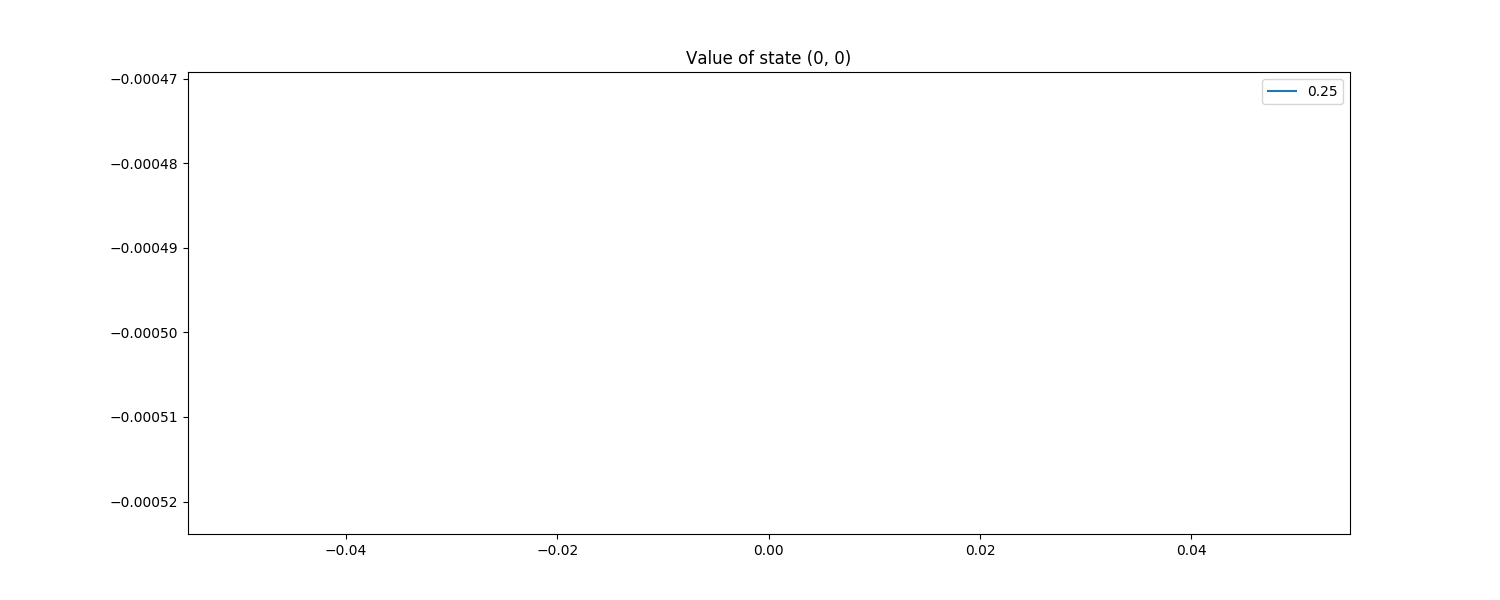
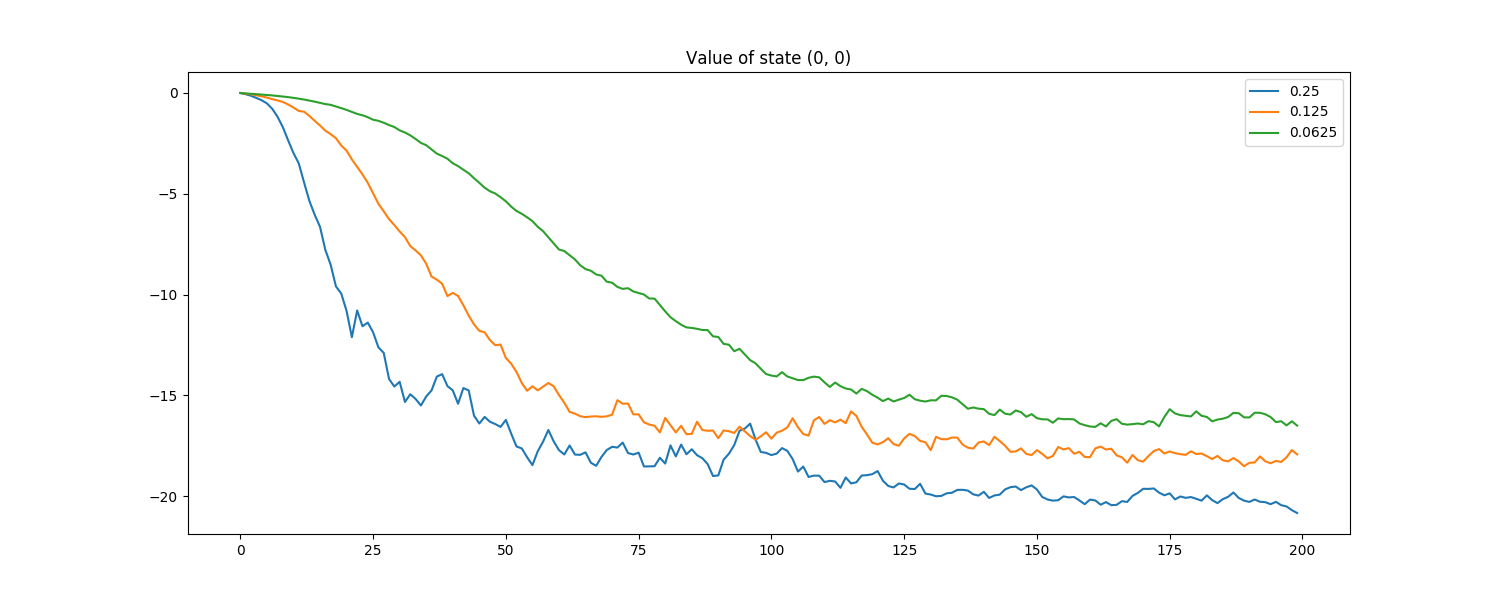
Fixed bugs

diff --git a/modelFree.py b/modelFree.py
@@ -136,7 +136,7 @@ class ReturnCalculator():
 
 
 inp_size = 500
-alpha_list = [0.25]
+alpha_list = [0.25, 0.125, 0.0625]
 gamma = 0.9
 decay_factor = 0.3
 
@@ -146,7 +146,7 @@ tile = TileCoding(5, 10, disp_vector)
 model = Model(inp_size)
 ret = ReturnCalculator()
 
-value = np.zeros(len(alpha_list))
+value = np.zeros((len(alpha_list), 200))
 
 for k, alpha in enumerate(alpha_list):
 
@@ -185,8 +185,8 @@ for k, alpha in enumerate(alpha_list):
                 state = next_state
                 state_feat = next_state_feat
     #pdb.set_trace()
-    value[k] = np.mean(val, axis=0)[0]
-
+    value[k] = np.mean(val, axis=0)
+#50pdb.set_trace()
 leg = []
 fig = plt.figure(figsize=(15, 6))
 for t, alpha in enumerate(alpha_list):
